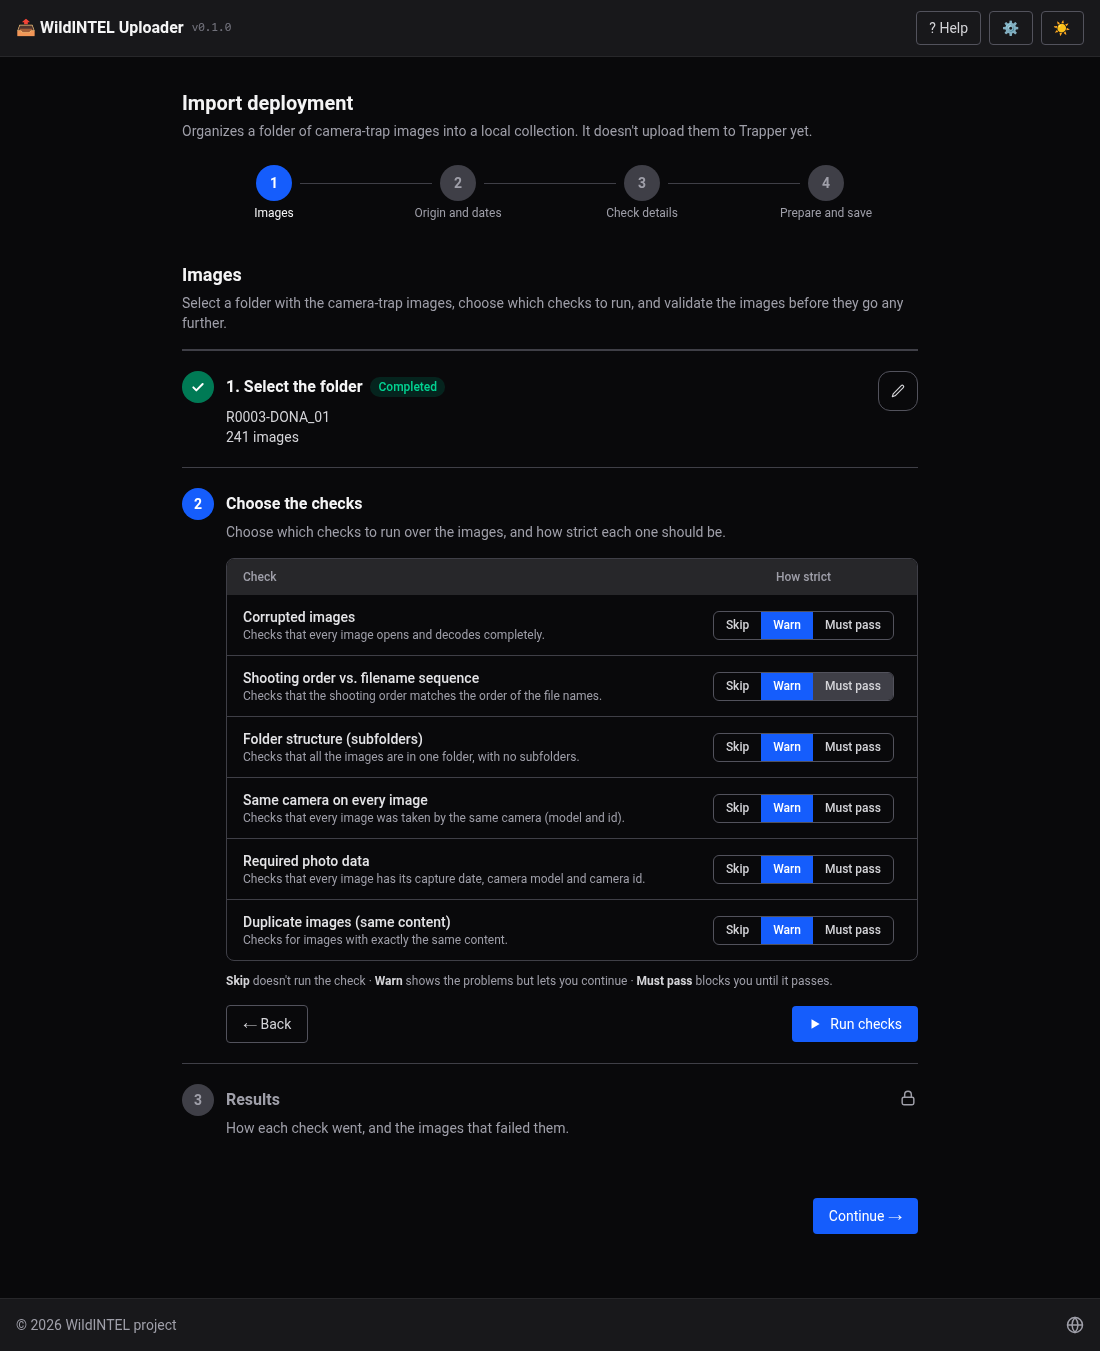
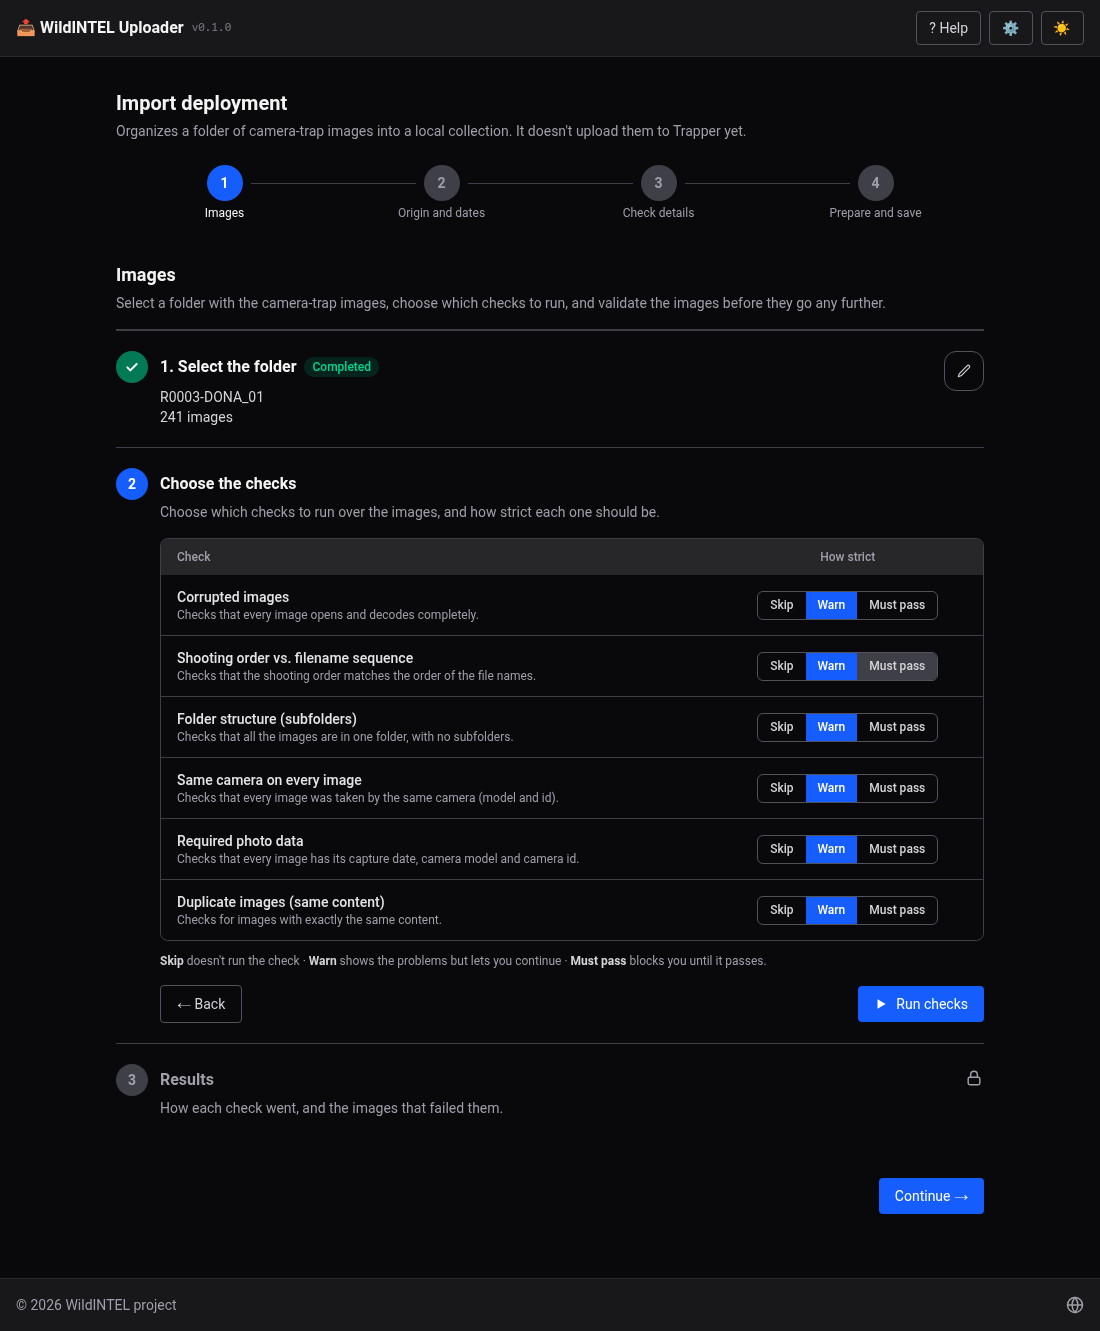
Layout: every page but the settings is 900 px wide; screenshots regenerated

diff --git a/frontend/src/pages/UtilsPage.tsx b/frontend/src/pages/UtilsPage.tsx
@@ -23,14 +23,14 @@ export default function UtilsPage({ onBack }: Props) {
   if (util) {
     return (
       <div>
-        <div className="mx-auto px-4 pt-6" style={{ maxWidth: 700 }}><BackButton onClick={() => setUtil(null)} /></div>
+        <div className="mx-auto max-w-[900px] px-4 pt-6"><BackButton onClick={() => setUtil(null)} /></div>
         {util === 'repair' ? <RepairPage /> : <SyncCollectionsPage />}
       </div>
     )
   }
 
   return (
-    <div className="mx-auto px-4 py-8" style={{ maxWidth: 700 }}>
+    <div className="mx-auto max-w-[900px] px-4 py-8">
       <h4 className="text-lg font-semibold mb-1">Utilities</h4>
       <p className="text-zinc-500 dark:text-zinc-400 mb-6 text-sm">Maintenance of the local collections.</p>
       <OptionCards options={UTIL_OPTIONS} selected={null} onChoose={setUtil} />

diff --git a/frontend/src/pages/SyncCollectionsPage.tsx b/frontend/src/pages/SyncCollectionsPage.tsx
@@ -108,7 +108,7 @@ export default function SyncCollectionsPage() {
   const step2Status = syncing ? 'running' : !started ? 'locked' : error && !result ? 'error' : 'done'
 
   return (
-    <div className="max-w-screen-md mx-auto px-4 py-8">
+    <div className="mx-auto max-w-[900px] px-4 py-8">
       <h2 className="text-xl font-bold mb-1 text-zinc-900 dark:text-zinc-100">Sync local collections</h2>
       <p className="text-sm text-zinc-500 dark:text-zinc-400 mb-6">
         The local folders are checked against what Trapper has for a classification project, and what is missing is created: the research project and its locations, the collection

diff --git a/frontend/src/pages/UploadDeploymentPage.tsx b/frontend/src/pages/UploadDeploymentPage.tsx
@@ -314,7 +314,7 @@ export default function UploadDeploymentPage({ initial, onOpenSettings }: Props 
   const outputDir = order.map((id) => runs[id]?.result?.output_dir).find(Boolean) ?? null
 
   return (
-    <div className="max-w-screen-md mx-auto px-4 py-8">
+    <div className="mx-auto max-w-[900px] px-4 py-8">
       <h2 className="text-xl font-bold mb-1 text-zinc-900 dark:text-zinc-100">Upload deployment to Trapper</h2>
       <p className="text-sm text-zinc-500 dark:text-zinc-400 mb-6">
         Sends deployments from your collections folder to Trapper. Anything missing there is created, then the images are sent for Trapper to process.

diff --git a/frontend/src/pages/ImportDeploymentPage.tsx b/frontend/src/pages/ImportDeploymentPage.tsx
@@ -2054,7 +2054,7 @@ export default function ImportDeploymentPage({ resumeSession, onUpload, onOpenSe
   const connectionForm = <TrapperAccountNotice account={account} conn={conn} onRetry={handleTestConnection} />
 
   return (
-    <div className="max-w-screen-md mx-auto px-4 py-8">
+    <div className="mx-auto max-w-[900px] px-4 py-8">
       <h2 className="text-xl font-bold mb-1 text-zinc-900 dark:text-zinc-100">Import deployment</h2>
       <p className="text-sm text-zinc-500 dark:text-zinc-400 mb-6">
         Organizes a folder of camera-trap images into a local collection. It doesn't upload them to Trapper yet.

diff --git a/frontend/src/pages/RepairPage.tsx b/frontend/src/pages/RepairPage.tsx
@@ -146,7 +146,7 @@ export default function RepairPage() {
   const validCount = checkedList.length - notValid.length
 
   return (
-    <div className="max-w-screen-md mx-auto px-4 py-8">
+    <div className="mx-auto max-w-[900px] px-4 py-8">
       <h2 className="text-xl font-bold mb-1 text-zinc-900 dark:text-zinc-100">Repair local deployments</h2>
       <p className="text-sm text-zinc-500 dark:text-zinc-400 mb-6">
         A deployment is <strong>valid</strong> when its <span className="font-mono">seal.json</span> still matches it. For the ones that are not, the metadata files are written again

diff --git a/frontend/src/pages/ImportSessionPage.tsx b/frontend/src/pages/ImportSessionPage.tsx
@@ -745,7 +745,7 @@ export default function ImportSessionPage({ onUpload, onOpenSettings, settingsOp
   }
 
   return (
-    <div className="max-w-screen-md mx-auto px-4 py-8">
+    <div className="mx-auto max-w-[900px] px-4 py-8">
       <h2 className="text-xl font-bold mb-1 text-zinc-900 dark:text-zinc-100">Import session</h2>
       <p className="text-sm text-zinc-500 dark:text-zinc-400 mb-6">
         Imports a folder of deployments — one subfolder each — into the local collections folder. The revision, the checks and the

diff --git a/frontend/src/pages/ResumeSessionsPage.tsx b/frontend/src/pages/ResumeSessionsPage.tsx
@@ -110,7 +110,7 @@ function SessionCard({ session, onResume, onDiscarded }: { session: SessionSumma
 
 export default function ResumeSessionsPage({ sessions, onResume, onDiscarded, onSkip }: Props) {
   return (
-    <div className="mx-auto px-4 py-8" style={{ maxWidth: 700 }}>
+    <div className="mx-auto max-w-[900px] px-4 py-8">
       <h1 className="text-2xl font-bold mb-1">Unfinished run{sessions.length > 1 ? 's' : ''}</h1>
       <p className="text-zinc-500 dark:text-zinc-400 mb-6 text-sm">
         {sessions.length === 1

diff --git a/frontend/src/pages/MenuPage.tsx b/frontend/src/pages/MenuPage.tsx
@@ -14,7 +14,7 @@ interface Props {
 
 export default function MenuPage({ onChoose }: Props) {
   return (
-    <div className="mx-auto px-4 py-8" style={{ maxWidth: 700 }}>
+    <div className="mx-auto max-w-[900px] px-4 py-8">
       <h1 className="text-2xl font-bold mb-1">What do you want to do?</h1>
       <p className="text-zinc-500 dark:text-zinc-400 mb-6 text-sm">Choose one of the following.</p>
       <OptionCards options={TASK_OPTIONS} selected={null} onChoose={onChoose} />
